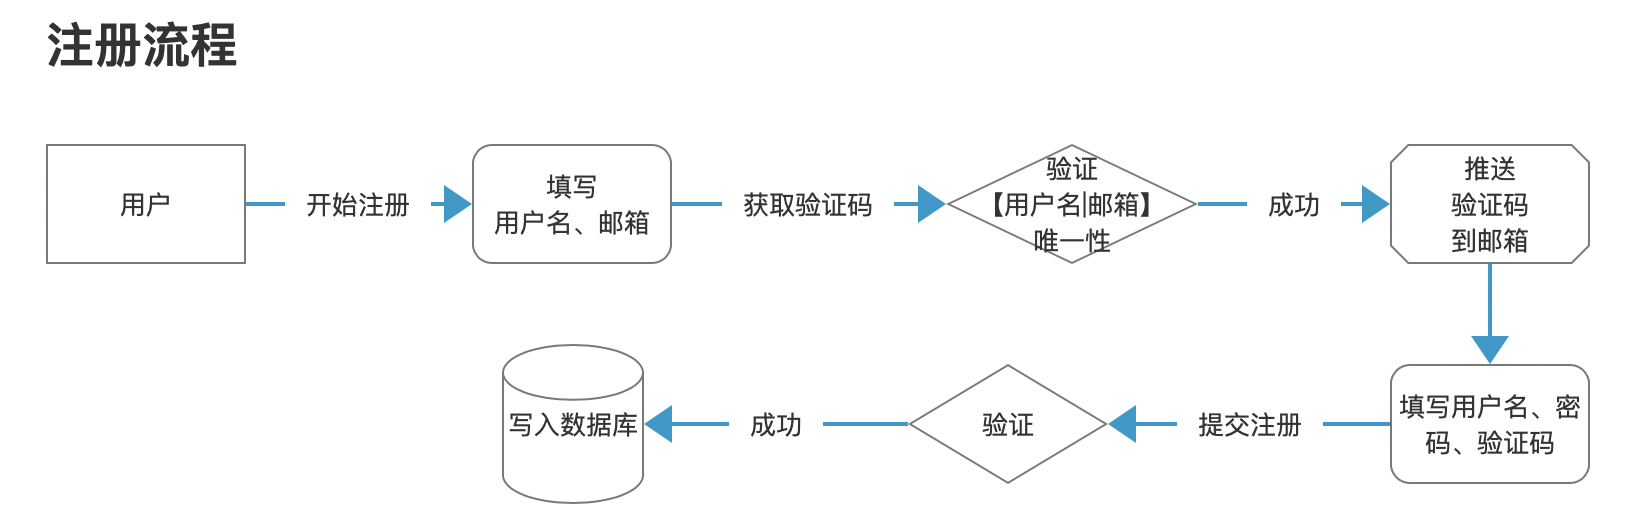
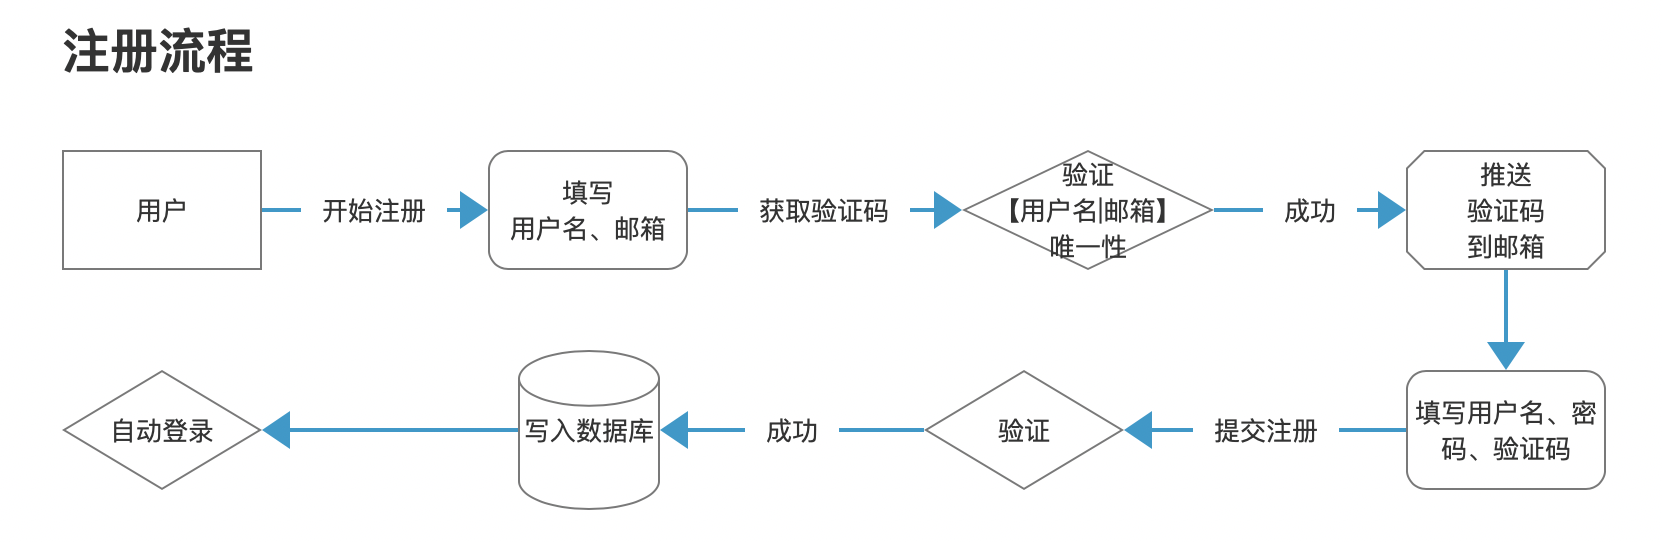
update 用户系统模块

diff --git a/package/session_manage.py b/package/session_manage.py
@@ -10,7 +10,6 @@ def set_user_session(request, user):
     request.session['id'] = user.id
     request.session['username'] = user.username
     request.session['last_login_timestamp'] = user.last_login.timestamp()
-    request.session['user_permission'] = user.user_permission
 
 
 # 清除登录状态

diff --git a/doc/设计一个多端报警系统.md b/doc/设计一个多端报警系统.md
@@ -241,3 +241,36 @@ PS：用户名之所以要唯一性，是因为之后为了区分用户，需要
 </tr>
 </table>
 
+#### 2. 登录
+
+当注册功能整理好了后，登录就很简单啦。
+
+复杂的登录需要做登录验证码（图片验证码）防止暴力登录等功能，但由于本项目一般用于内网使用，所以就不做了（还是因为我懒）。因此简化一下，只提交两个字段：
+
+1. 用户名；
+2. 密码；
+
+流程太简单，就不画图了，手写一下。
+
+用户——》填写用户名、密码——》提交登录——》服务器验证用户名和密码是否正确——》（正确）登录成功——》（错误）记录 ip、时间、账号等写入日志
+
+之所以记录 ip、时间等日志，是为了方便日后功能拓展，例如当某 ip 连续多次登录失败则 ban 掉 ip，某个账号连续多次失败则暂时禁止该账号登录并要求邮箱验证等。
+
+登录成功后，则将用户基本信息（例如 id、用户名，登录时间|过期时间）写入 session。
+
+#### 3. 登出
+
+有了登录系统，那么登出就很好做了。
+
+登录的本质是写入 session，标记该用户为登录。那么登出只需要清空 session 即可。即【提交登出】，无需提交任何字段。
+
+对于 django 来说，清空 session 只需要调用 ``request.session.flush()`` 方法即可。
+
+#### 4. 登录检测
+
+登录检测功能，主要用于判断当前用户是否处于登录状态中。具体来说，分为几部分：
+
+1. 调用该接口：检测当前用户是否在登录状态；如果在登录状态，登录是否过期；如果未过期，返回用户信息；
+2. 调用后端接口时，按需检测登录状态（即某些接口需要登录状态才可用）：检测用户登录是否过期，如果过期，拦截并清空 session，返回给用户提示信息；
+
+后者可以参考：``package/request_method_limit.py`` 中的代码。
